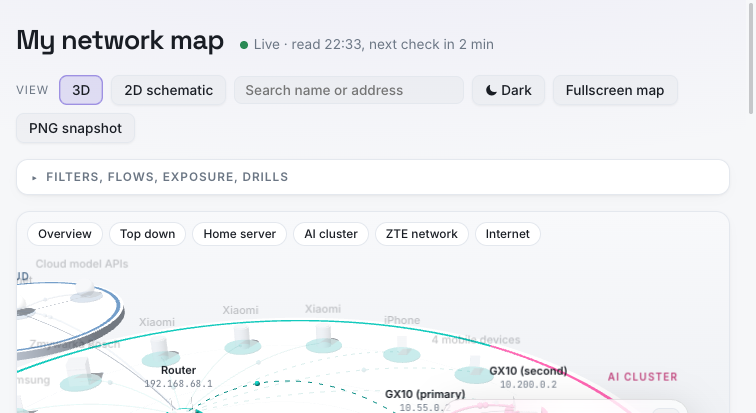
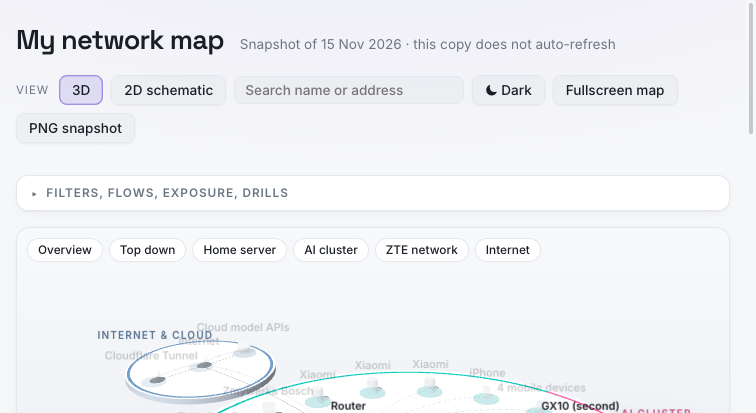
docs: anonymize IPs in demo topology and screenshots

diff --git a/web/index.html b/web/index.html
@@ -226,10 +226,10 @@ input#q:focus{outline:none;border-color:color-mix(in srgb,var(--ts) 55%,transpar
 <script>
 const NETS={
   net:{name:'Internet & cloud',col:'var(--wan)',sub:'services away from home'},
-  lan:{name:'Home LAN',col:'var(--lan)',sub:'192.168.68.0/22 · brama 192.168.68.1'},
-  ai:{name:'AI cluster',col:'var(--ai)',sub:'10.55.0.0/30 + 2 × RoCE'},
+  lan:{name:'Home LAN',col:'var(--lan)',sub:'192.168.30.0/22 · brama 192.168.30.1'},
+  ai:{name:'AI cluster',col:'var(--ai)',sub:'10.0.0.0/30 + 2 × RoCE'},
   ts:{name:'Tailscale',col:'var(--ts)',sub:'tail84733f.ts.net · 100.x'},
-  zte:{name:'Second LAN (ZTE)',col:'var(--zte)',sub:'192.168.0.0/24 · reachable via Tailscale'}
+  zte:{name:'Second LAN (ZTE)',col:'var(--zte)',sub:'192.168.8.0/24 · reachable via Tailscale'}
 };
 const ICON={
   router:'M4 14h16v5H4z M8 14V9 M16 14V9 M7.5 16.5h.01',
@@ -254,52 +254,52 @@ const N=[
  {id:'api',name:'Cloud model APIs',ip:'DeepSeek · Claude',kind:'cloud',x:800,y:58,g:['net'],
   desc:'Cloud models: a paid LLM API for the fallback bot and Claude Sonnet for the screen subagent.',
   facts:[['fallback','Cloud LLM (paid API)'],['screen','Claude Sonnet (subscription)']]},
- {id:'router',name:'Router',ip:'192.168.68.1',kind:'router',x:325,y:190,g:['lan'],
-  desc:'Home LAN gateway and the way out to the internet. The MAC points to TP-Link; the 192.168.68.x addressing is typical for a Deco setup.',
-  facts:[['Subnets','192.168.68.0/22'],['Vendor','TP-Link (wg MAC)']]},
- {id:'hue',name:'Mostek Hue',ip:'192.168.68.52',kind:'bulb',x:60,y:300,g:['lan'],
+ {id:'router',name:'Router',ip:'192.168.30.1',kind:'router',x:325,y:190,g:['lan'],
+  desc:'Home LAN gateway and the way out to the internet. The MAC points to TP-Link; typical consumer mesh addressing.',
+  facts:[['Subnets','192.168.30.0/22'],['Vendor','TP-Link (wg MAC)']]},
+ {id:'hue',name:'Mostek Hue',ip:'192.168.30.52',kind:'bulb',x:60,y:300,g:['lan'],
   desc:'Philips Hue Bridge (C644E5). Drives the lighting, visible to Home Assistant.'},
  {id:'tahoma',name:'TaHoma Switch',ip:'adres nieustalony',kind:'router',x:168,y:300,g:['lan'],guess:1,
   desc:'A Somfy TaHoma Switch hub driving seven blinds over io-homecontrol radio. Home Assistant reaches it via the Somfy cloud, so it does not know its IP. The MAC is not assigned yet: pick the right address in the unknown-devices section at the bottom.',
   facts:[['Rolety','Okno Tosia, Sypialnia, Salon 1–3, Okno biuro, Drzwi balkonowe'],['Home Assistant','integracja Overkiz (chmura Somfy)']]},
- {id:'lex',name:'Lexmark MC3224dwe',ip:'192.168.68.58',kind:'printer',x:276,y:300,g:['lan'],
+ {id:'lex',name:'Lexmark MC3224dwe',ip:'192.168.30.58',kind:'printer',x:276,y:300,g:['lan'],
   desc:'Drukarka wielofunkcyjna: druk (IPP), skaner, panel WWW na porcie 80.'},
- {id:'tv',name:'Telewizor Samsung',ip:'192.168.68.60 · .66',kind:'tv',x:384,y:300,g:['lan'],
+ {id:'tv',name:'Telewizor Samsung',ip:'192.168.30.60 · .66',kind:'tv',x:384,y:300,g:['lan'],
   desc:'A TV with AirPlay. The same MAC shows up under two IPs.'},
- {id:'bosch',name:'Zmywarka Bosch',ip:'192.168.68.53',kind:'appliance',x:492,y:300,g:['lan'],
+ {id:'bosch',name:'Zmywarka Bosch',ip:'192.168.30.53',kind:'appliance',x:492,y:300,g:['lan'],
   desc:'Bosch SMV4HVX37E dishwasher (Home Connect). The MAC belongs to BSH, so the .53 assignment is certain.'},
- {id:'unk',name:'Xiaomi',ip:'192.168.68.67',kind:'air',x:600,y:300,g:['lan'],guess:1,
+ {id:'unk',name:'Xiaomi',ip:'192.168.30.67',kind:'air',x:600,y:300,g:['lan'],guess:1,
   desc:'A Xiaomi device (Xiaomi vendor MAC); the Xiaomi Home integration runs in Home Assistant. Which of the three (.50, .51, .67) is the air purifier, I cannot tell from here.'},
- {id:'xi1',name:'Xiaomi',ip:'192.168.68.50',kind:'air',x:60,y:410,g:['lan'],guess:1,
+ {id:'xi1',name:'Xiaomi',ip:'192.168.30.50',kind:'air',x:60,y:410,g:['lan'],guess:1,
   desc:'A Xiaomi device (per MAC). One of the three (.50, .51, .67) is a Mi Air Purifier (zhimi-airpurifier-m1); cannot tell which from here.'},
- {id:'xi2',name:'Xiaomi',ip:'192.168.68.51',kind:'air',x:165,y:410,g:['lan'],guess:1,
-  desc:'Another Xiaomi device (per MAC). See the note at 192.168.68.50.'},
- {id:'iph',name:'iPhone',ip:'192.168.68.56',kind:'phone',x:270,y:410,g:['lan'],
+ {id:'xi2',name:'Xiaomi',ip:'192.168.30.51',kind:'air',x:165,y:410,g:['lan'],guess:1,
+  desc:'Another Xiaomi device (per MAC). See the note at 192.168.30.50.'},
+ {id:'iph',name:'iPhone',ip:'192.168.30.56',kind:'phone',x:270,y:410,g:['lan'],
   desc:'iPhone on the home Wi-Fi (announces as iPhone.local). Away from home it connects over Tailscale.'},
  {id:'priv',name:'4 mobile devices',ip:'.55 · .57 · .62 · .65',kind:'phone',x:375,y:410,g:['lan'],guess:1,
   desc:'Four devices with random (private) MACs, most likely phones, tablets or watches. They do not announce names.'},
- {id:'mac',name:'Home server',ip:'192.168.68.54',kind:'computer',x:560,y:410,g:['lan','ai','ts'],hub:1,
+ {id:'mac',name:'Home server',ip:'192.168.30.54',kind:'computer',x:560,y:410,g:['lan','ai','ts'],hub:1,
   desc:'The center of it all: sits in three networks at once and keeps the Cloudflare tunnel. The assistant and home services run here.',
-  facts:[['Home LAN','192.168.68.54 (1 GbE, Wi-Fi off)'],['Link to the GX10','10.55.0.1'],['Tailscale','100.118.235.98 (vaultwarden-mac-mini)'],
+  facts:[['Home LAN','192.168.30.54 (1 GbE, Wi-Fi off)'],['Link to the GX10','10.0.0.1'],['Tailscale','100.64.0.4 (vaultwarden-mac-mini)'],
          ['Services','assistant bot + panel :9119, Home Assistant :8123, Jellyfin :8096, Vaultwarden :8081, e-invoicing :8787, Transmission :9091'],
          ['Tailscale Serve',':443 Vaultwarden · :10443 assistant panel · :9443 model API · :8443 service :8880']]},
- {id:'gxa',name:'GX10 (primary)',ip:'10.55.0.2',kind:'server',x:740,y:300,g:['ai','lan'],
-  desc:'gx10-d2a2, the primary node. Serves the GLM-5.3-Flash model at 10.55.0.2:8888.',
-  facts:[['Do Maca','10.55.0.2 (direct cable)'],['Do drugiego GX10','10.200.0.1 i 10.200.1.1 (RoCE)'],['Wi-Fi','192.168.68.63'],['Kontener','glm53-flash-tf']]},
+ {id:'gxa',name:'GX10 (primary)',ip:'10.0.0.2',kind:'server',x:740,y:300,g:['ai','lan'],
+  desc:'gx10-d2a2, the primary node. Serves the GLM-5.3-Flash model at 10.0.0.2:8888.',
+  facts:[['Do Maca','10.0.0.2 (direct cable)'],['Do drugiego GX10','10.200.0.1 i 10.200.1.1 (RoCE)'],['Wi-Fi','192.168.30.63'],['Kontener','glm53-flash-tf']]},
  {id:'gxb',name:'GX10 (second)',ip:'10.200.0.2',kind:'server',x:900,y:300,g:['ai','lan'],
   desc:'gx10-cd92, the second node. The model is sharded across both machines over two RoCE links.',
-  facts:[['To the primary GX10','10.200.0.2 i 10.200.1.2 (RoCE)'],['Wi-Fi','192.168.68.59'],['Access SSH','via the primary GX10 (ProxyJump)']]},
- {id:'tsi',name:'iphone171',ip:'100.68.42.76',kind:'phone',x:250,y:570,g:['ts'],
+  facts:[['To the primary GX10','10.200.0.2 i 10.200.1.2 (RoCE)'],['Wi-Fi','192.168.30.59'],['Access SSH','via the primary GX10 (ProxyJump)']]},
+ {id:'tsi',name:'iphone171',ip:'100.64.0.1',kind:'phone',x:250,y:570,g:['ts'],
   desc:'iPhone in the tailnet. The assistant panel and Vaultwarden open from here, even outside home.'},
- {id:'hp',name:'hp-t630',ip:'100.93.180.2',kind:'computer',x:545,y:570,g:['ts','zte'],
-  desc:'A Windows box (HP t630) in the second location, acting as the Tailscale subnet router: it advertises 192.168.0.0/24 so the server sees devices behind the ZTE router, printer included.',
-  facts:[['Tailscale','100.93.180.2'],['ZTE net','192.168.0.2'],['Access','SSH via the server']]},
- {id:'zte',name:'Router ZTE',ip:'192.168.0.1',kind:'router',x:330,y:694,g:['zte'],
+ {id:'hp',name:'hp-t630',ip:'100.64.0.2',kind:'computer',x:545,y:570,g:['ts','zte'],
+  desc:'A Windows box (HP t630) in the second location, acting as the Tailscale subnet router: it advertises 192.168.8.0/24 so the server sees devices behind the ZTE router, printer included.',
+  facts:[['Tailscale','100.64.0.2'],['ZTE net','192.168.8.2'],['Access','SSH via the server']]},
+ {id:'zte',name:'Router ZTE',ip:'192.168.8.1',kind:'router',x:330,y:694,g:['zte'],
   desc:'Router of the second network. Responds to ping from the server via Tailscale.'},
- {id:'qidi',name:'QIDI X-Plus 5',ip:'192.168.0.4',kind:'printer',x:760,y:694,g:['zte'],
+ {id:'qidi',name:'QIDI X-Plus 5',ip:'192.168.8.4',kind:'printer',x:760,y:694,g:['zte'],
   desc:'A 3D printer. The server sends files and starts prints over Moonraker; the whole path runs through the Tailscale tunnel to hp-t630 and the ZTE network.',
-  facts:[['Moonraker','192.168.0.4:7125']]},
- {id:'mmw',name:'mac-mini-work',ip:'100.76.65.3',kind:'computer',x:840,y:570,g:['ts'],
+  facts:[['Moonraker','192.168.8.4:7125']]},
+ {id:'mmw',name:'mac-mini-work',ip:'100.64.0.3',kind:'computer',x:840,y:570,g:['ts'],
   desc:'A second Mac mini (work) in the tailnet.'}
 ];
 const TS='https://vaultwarden-mac-mini.tail84733f.ts.net';
@@ -310,13 +310,13 @@ const SVC=[
  {id:'s-jf',name:'Jellyfin',port:8096,ex:'inet',url:'https://media.example.com',desc:'Media library with a public address via Cloudflare.'},
  {id:'s-ksef',name:'E-invoicing',port:8787,ex:'inet',url:'https://invoices.example.com',desc:'Serwis faktur of publicznym adresem przez Cloudflare.'},
  {id:'s-cloud',name:'Cloud (Docker)',port:8080,ex:'inet',url:'https://apps.example.com',desc:'A Docker service on port 8080, publicly as apps.example.com.'},
- {id:'s-tr',name:'Transmission',port:9091,ex:'home',url:'http://192.168.68.54:9091',desc:'Torrent client. The panel listens on all interfaces, so it is reachable from the home LAN.'},
+ {id:'s-tr',name:'Transmission',port:9091,ex:'home',url:'http://192.168.30.54:9091',desc:'Torrent client. The panel listens on all interfaces, so it is reachable from the home LAN.'},
  {id:'s-cf',name:'Tunel Cloudflare',port:null,ex:'inet',desc:'The cloudflared process keeping the outbound tunnel to Cloudflare and serving four public hostnames.'}
 ];
 const EXN={inet:'z internetu',tail:'tylko tailnet',home:'home LAN'};
 SVC.forEach(s=>N.push({id:s.id,name:s.name,ip:s.port?'port '+s.port:'proces',kind:'svc',g:['svc'],svc:1,x:0,y:0,desc:s.desc,url:s.url,facts:[['Runs on','the server'],['Access',EXN[s.ex]]]}));
 const SVCALL=SVC.concat([{id:'s-glm',name:'GLM model (on GX10)',port:8888,ex:'tail',node:'gxa'}]);
-const URLS={router:'http://192.168.68.1',lex:'http://192.168.68.58',zte:'http://192.168.0.1',qidi:'http://192.168.0.4'};
+const URLS={router:'http://192.168.30.1',lex:'http://192.168.30.58',zte:'http://192.168.8.1',qidi:'http://192.168.8.4'};
 N.forEach(n=>{n.name0=n.name;if(URLS[n.id])n.url=URLS[n.id]});
 const EXPO=[
  {id:'inet',name:'Widoczne of internetu',nodes:['cf','net','router','mac','s-ha','s-jf','s-ksef','s-cloud','s-cf'],links:[['net','cf'],['net','router'],['router','mac']],
@@ -339,14 +339,14 @@ const L=[
  ['router','xi1','lan'],['router','xi2','lan'],['router','iph','lan'],['router','priv','lan'],
  ['router','mac','lan','1 Gb/s'],
  ['router','gxa','lan','Wi-Fi',[560,150]],['router','gxb','lan','',[640,120]],
- ['mac','gxa','direct','10.55.0.0/30'],
+ ['mac','gxa','direct','10.0.0.0/30'],
  ['gxa','gxb','roce','RoCE',[820,262]],['gxa','gxb','roce','',[820,338]],
  ['mac','tsi','ts'],['mac','hp','ts'],['mac','mmw','ts'],
  ['hp','zte','zte'],['zte','qidi','zte']
 ];
 const FLOWS=[
  {id:'tg',name:'Telegram → assistant → LLM',path:['net','router','mac','gxa','gxb'],
-  steps:['A Telegram message arrives from the internet via the router to the server.','The assistant on the server queries the model over the direct link (10.55.0.2:8888).','Both GX10 nodes answer together over the RoCE links.']},
+  steps:['A Telegram message arrives from the internet via the router to the server.','The assistant on the server queries the model over the direct link (10.0.0.2:8888).','Both GX10 nodes answer together over the RoCE links.']},
  {id:'ip',name:'iPhone → assistant panel',path:['tsi','mac'],
   steps:['The iPhone connects over an encrypted Tailscale tunnel to server.tailnet…:10443.','Tailscale Serve on the server forwards the traffic to the assistant panel at 127.0.0.1:9119.','Model zostaje na GX10; telefon rozmawia tylko of Makiem.']},
  {id:'fk',name:'invoices.example.com',path:['cf','net','router','mac'],
@@ -354,7 +354,7 @@ const FLOWS=[
  {id:'ep',name:'LLM outage → fallback',path:['mac','router','net','api'],
   steps:['A watchdog checks the model on the GX10 every 30 min and alerts when it is down.','You then write to the fallback bot running on the server.','The fallback asks the cloud API, so this data leaves the house.']},
  {id:'qd',name:'Print job → QIDI',path:['mac','hp','zte','qidi'],
-  steps:['The server sends the .gcode.3mf file to 192.168.0.4:7125.','The route to 192.168.0.0/24 goes over Tailscale to hp-t630 sitting in the ZTE network.','hp-t630 forwards the traffic through the ZTE router to the printer; Moonraker starts the print.']},
+  steps:['The server sends the .gcode.3mf file to 192.168.8.4:7125.','The route to 192.168.8.0/24 goes over Tailscale to hp-t630 sitting in the ZTE network.','hp-t630 forwards the traffic through the ZTE router to the printer; Moonraker starts the print.']},
  {id:'ha',name:'Home Assistant → Hue',path:['mac','router','hue'],
   steps:['Home Assistant runs on the server (:8123).','The command goes through the router to the Hue bridge on the home LAN.','The bridge drives the bulbs over its own radio (Zigbee).']}
 ];
@@ -798,7 +798,7 @@ const idx=$('idx');
 function buildIndex(){
   idx.replaceChildren();
   Object.entries(NETS).forEach(([k,v])=>{const s=h('section');const t=h('h3');const d=h('span',{class:'dot'});d.style.background=v.col;t.append(d,v.name);s.append(t);
-    N.filter(n=>n.g.includes(k)).forEach(n=>{const b=h('button',{type:'button'});b.append(h('span',{},n.name),h('span',{},k==='ts'&&n.id==='mac'?'100.118.235.98':k==='lan'&&n.id==='gxa'?'192.168.68.63':k==='lan'&&n.id==='gxb'?'192.168.68.59':k==='ai'&&n.id==='mac'?'10.55.0.1':k==='zte'&&n.id==='hp'?'192.168.0.2':n.ip));
+    N.filter(n=>n.g.includes(k)).forEach(n=>{const b=h('button',{type:'button'});b.append(h('span',{},n.name),h('span',{},k==='ts'&&n.id==='mac'?'100.64.0.4':k==='lan'&&n.id==='gxa'?'192.168.30.63':k==='lan'&&n.id==='gxb'?'192.168.30.59':k==='ai'&&n.id==='mac'?'10.0.0.1':k==='zte'&&n.id==='hp'?'192.168.8.2':n.ip));
       b.onclick=()=>{go(n.id);document.querySelector('.stagecol').scrollIntoView({behavior:'smooth',block:'nearest'})};s.append(b)});
     idx.append(s)});
 }
